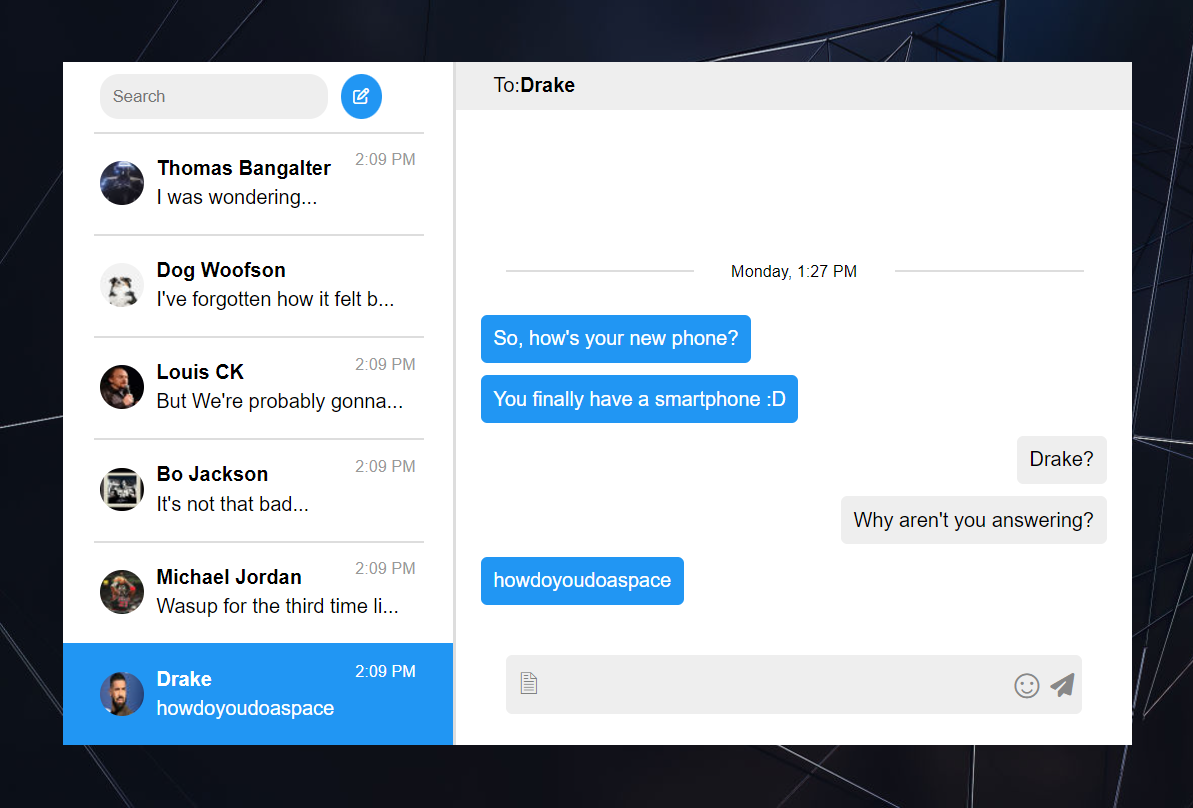
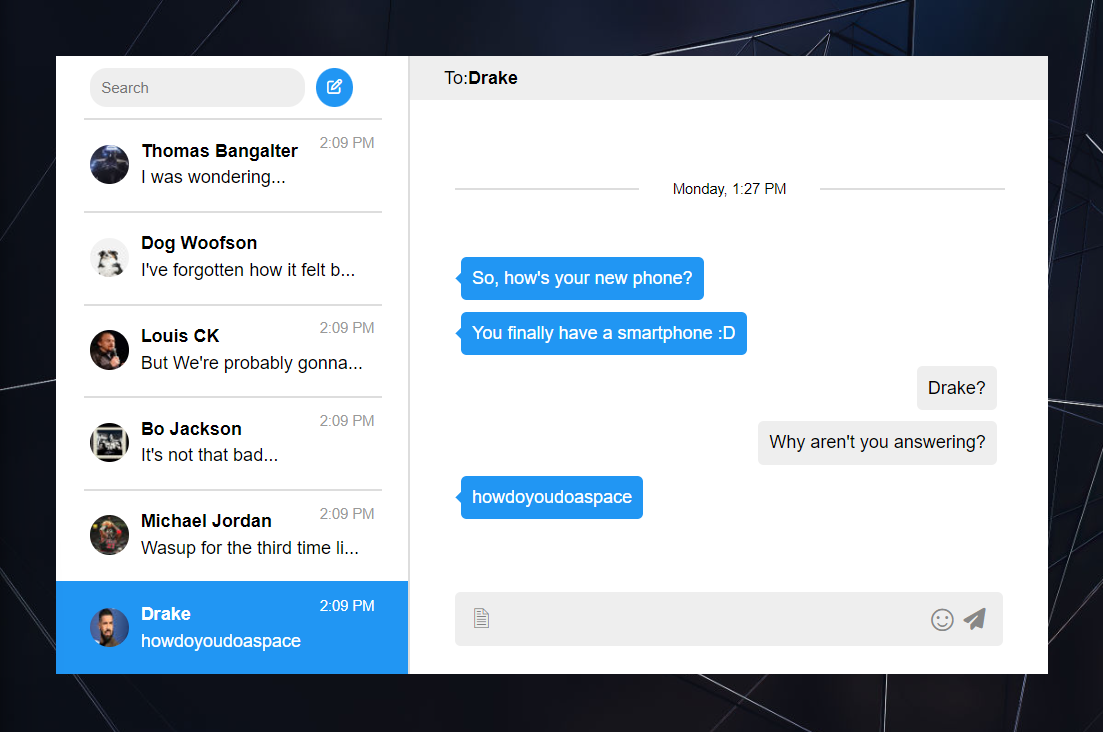
Chat Messenger With Background

diff --git a/CSS/HTML+CSS-Challenges/02 - Easy/04- Chat Messenger With Background/master.css b/CSS/HTML+CSS-Challenges/02 - Easy/04- Chat Messenger With Background/master.css
@@ -133,7 +133,7 @@ input {
   padding-bottom: 25px;
   position: relative;
   input[type="text"] {
-    padding: 10px;
+    padding: 10px 15px;
     background-color: #eee;
     outline: none;
     border: none;
@@ -147,8 +147,8 @@ input {
     position: absolute;
     content: "☺";
     font-size: 2rem;
-    left: calc(100% - 100px);
-    top: calc(100% - 68px);
+    left: calc(100% - 110px);
+    top: calc(100% - 69px);
     z-index: 1;
     color: #888;
   }
@@ -156,7 +156,7 @@ input {
     position: absolute;
     color: #888;
     font-size: 1.2rem;
-    left: calc(100% - 65px);
+    left: calc(100% - 75px);
     top: calc(100% - 58px);
   }
 }
@@ -166,7 +166,7 @@ input {
   flex-flow: column wrap;
   gap: 10px;
   margin-bottom: 20px;
-  padding: 20px;
+  padding: 45px;
   position: relative;
   p {
     background-color: #2196f3;
@@ -174,6 +174,17 @@ input {
     width: fit-content;
     padding: 10px;
     border-radius: 5px;
+    position: relative;
+    &:not(.r)::before {
+      content: "";
+      position: absolute;
+      border-left: 8px solid #2196f3;
+      border-right: 8px solid transparent;
+      border-top: 8px solid transparent;
+      top: 18px;
+      left: -4px;
+      transform: rotate(45deg);
+    }
   }
 
   .r {
